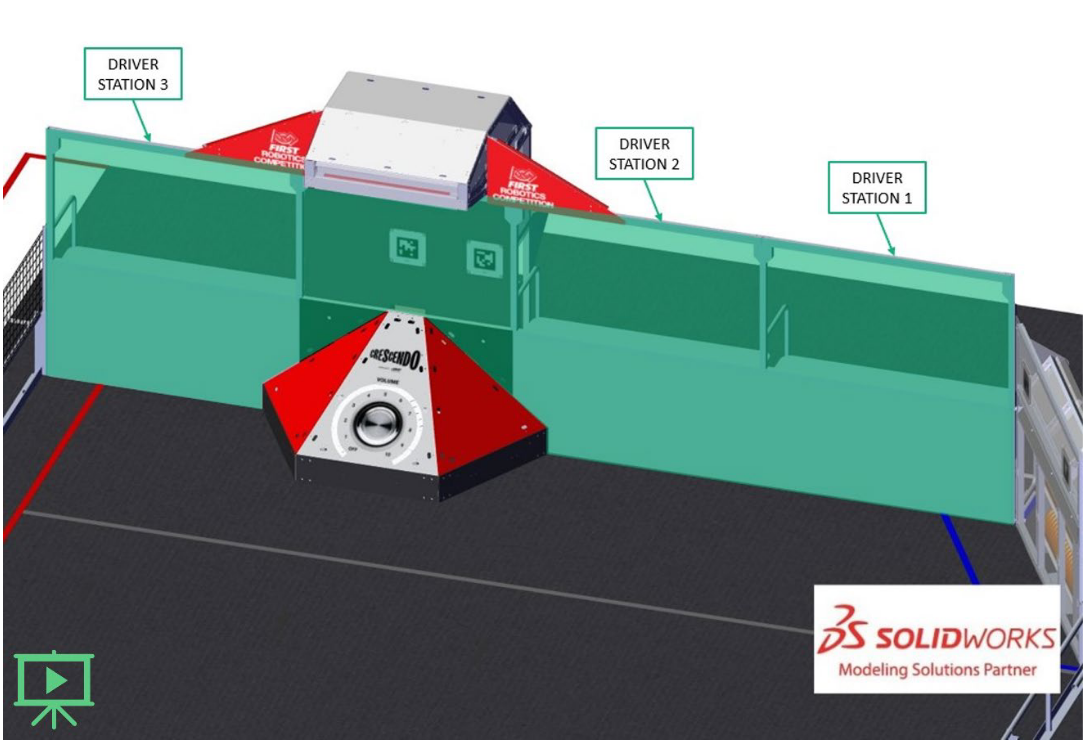
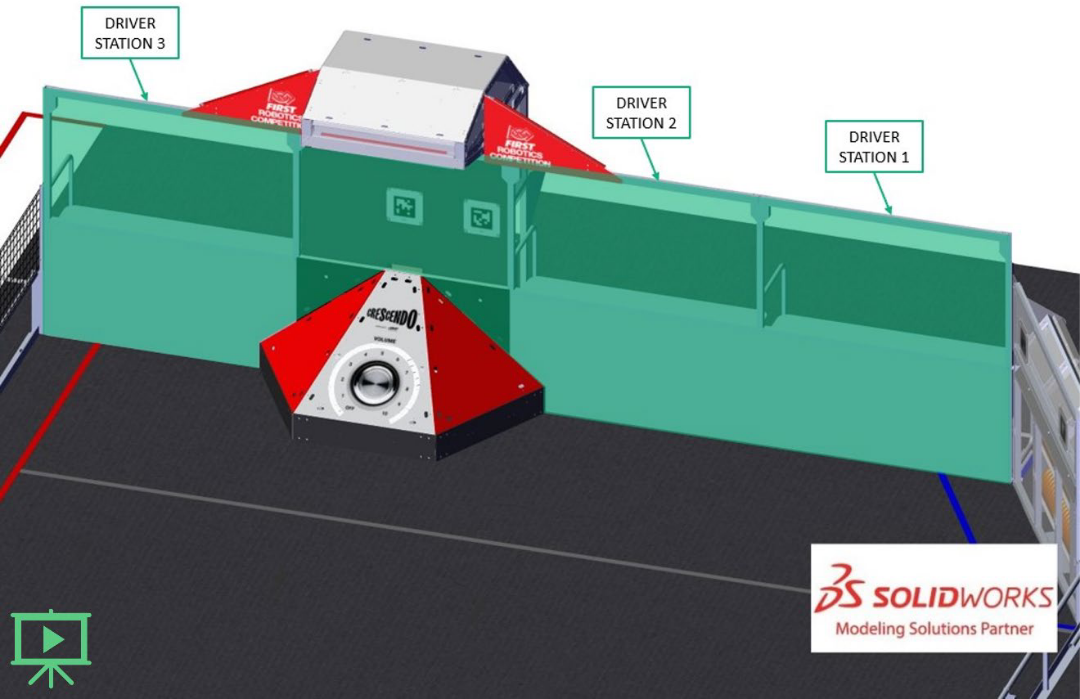
fix Driver Station guide modal is too small #7

Changed region(s): [[0.0, 0.0, 1.0, 1.0], [0.0, 0.8712, 0.0917, 0.9914]]

diff --git a/app/match-survey/page.js b/app/match-survey/page.js
@@ -683,16 +683,16 @@ export default function MatchSurveyPage(){
                 onClose={() => setModalOpen(false)}
                 aria-labelledby="driver-station-title"
                 aria-describedby="driver-station-image"
-                sx={{ display: 'flex', justifyContent: 'center', alignItems: 'center' }}
+                className={styles.modalStuff}
+                // sx={{ display: 'flex', justifyContent: 'center', alignItems: 'center', maxWidth:'50vw', maxHeight:'50vh', trans}}
             >
-                <ModalDialog>
-                <ModalClose variant="plain"/>
-                <p id='driver-station-title' style={{margin: 0}}>Driver Station Positions</p>
-                <div style={{position: 'relative', maxWidth:'50vw', maxHeight:'50vh'}}>
-                {/* <div style={{maxWidth: '100%', maxHeight: '100%', position:'relative'}}> */}
-                    <Image id='driver-station-image' src={Guide} alt='driver station wall figure' fill/>
-                    <h3>Credit: <cite>FIRST FRC 2024 Game Manual</cite></h3>
+                <ModalDialog layout='fullscreen-padded' sx={{ transition: `opacity $500ms ease-in-out`,}}>
+                <ModalClose variant="outlined"/>
+                <p id='driver-station-title' className={styles.driverStationTitle}>Driver Station Positions</p>
+                <div className={styles.modalImgContainer}>
+                    <Image id='driver-station-image' className={styles.driverStationImage} src={Guide} alt='driver station wall figure' fill/>
                 </div>
+                <small>Credit: <cite>FIRST FRC 2024 Game Manual</cite></small>
                 </ModalDialog>
             </Modal>
         </>

diff --git a/app/theme-registry.jsx b/app/theme-registry.jsx
@@ -35,14 +35,26 @@ const theme = extendTheme({
           borderRadius: '10px'
         }
       }
-    },
+    }, //end JoyButton
     JoyFormLabel: {
       styleOverrides: {
         root: {
           fontSize: '16px'
         }
       }
-    }
+    }, //end JoyFormLabel
+    JoyModalDialog: {
+      defaultProps: { layout: 'fullscreen-padded' },
+      styleOverrides: {
+        root: ({ ownerState }) => ({
+          ...(ownerState.layout === 'fullscreen-padded' && {
+              width: '90vw',
+              height: '50vh',
+              padding: '1rem 0.55rem'
+          }),
+        }),
+      }
+    } //end JoyModalDialog
   }
 })
 

diff --git a/app/match-survey/match.module.css b/app/match-survey/match.module.css
@@ -55,9 +55,29 @@
     display: flex;
 }
 
+.modalStuff {
+    display: flex;
+    justify-content: center;
+    align-items: center;
+    /* transition: all 0.5s fade; */
+}
 
+.modalImgContainer {
+    position: relative;
+    height: 100%;
+}
 
+.driverStationTitle {
+    margin-top: 0;
+    margin-bottom: 0;
+    margin-left: 1rem;
+}
 
+.driverStationImage {
+    /* object-fit: contain; */
+    /* object-position: center; */
+    border-radius: 10px;
+}
 
 .selectorContainer{
     position: relative;

diff --git a/app/page.js b/app/page.js
@@ -7,7 +7,7 @@ export default function Home() {
   return (
     <>
     <div className={styles.flexHeader}>
-      <p>Version: <span id="version-number" style={{color: '#01a0bb'}}>2.1.1</span></p>
+      <p>Version: <span id="version-number" style={{color: '#01a0bb'}}>2.0.1</span></p>
       <Button component="a" href="/db-view">
         View Data &#8594;
       </Button>

diff --git a/changelog.md b/changelog.md
@@ -18,8 +18,11 @@
 - fix Autocomplete value not clearing on submit by using `value`
 - fix rendering ternary in db-view
 
-## 2.1.1
+## v2.0.0
 - match survey form
 - api points made
 - basic match result render with colored backdrop
-- fix autocomplete and match number not using numeric keyboard
+- fix autocomplete and match number not using numeric keyboard (#4)
+
+## v2.0.1
+- fix [#7](https://github.com/arifire21/744-survey/issues/7)
